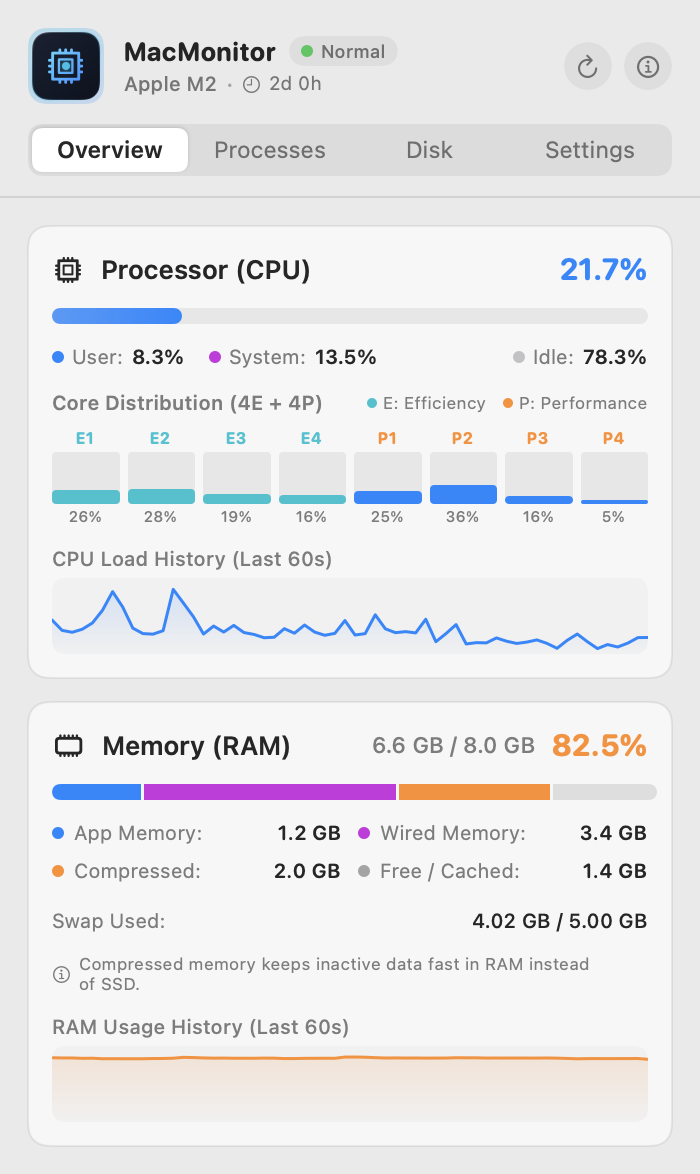
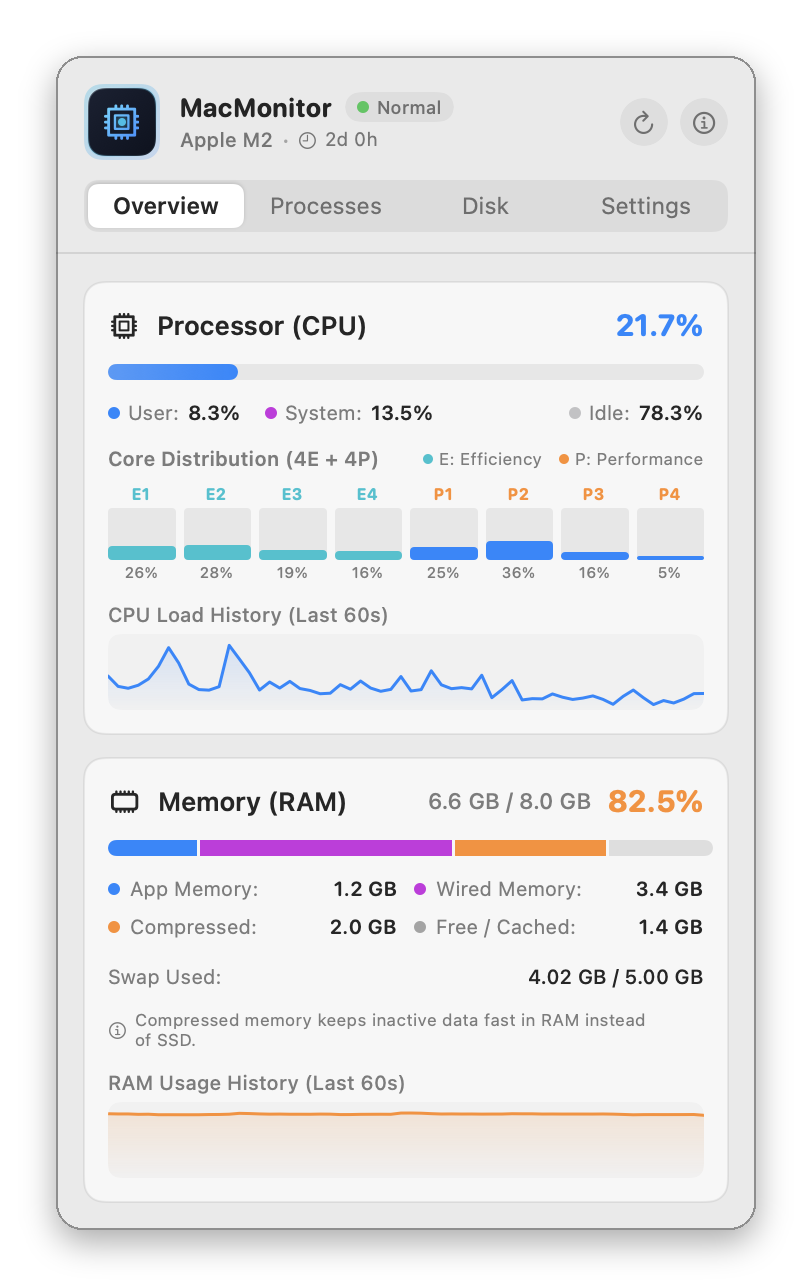
Screenshots framed like the other freeware2 apps: rounded corners, outline, shadow

diff --git a/README.tr.md b/README.tr.md
@@ -34,18 +34,18 @@
 
 Açık ve koyu menü çubuğunda gösterge (eşik aşılınca kırmızı) ve tıklayınca açılan panel.
 
-<p align="center"><img src="docs/screenshots/menubar.png" width="380" alt="Menü çubuğu: açık menü çubuğunda CPU %7 ve RAM %64, koyu menü çubuğunda CPU %23 ve kırmızı RAM %92"></p>
+<p align="center"><img src="docs/screenshots/menubar.png" width="436" alt="Menü çubuğu: açık menü çubuğunda CPU %7 ve RAM %64, koyu menü çubuğunda CPU %23 ve kırmızı RAM %92"></p>
 
 <p align="center">
-  <img src="docs/screenshots/tr/overview.png" width="300" alt="Genel Bakış sekmesi: kullanıcı, sistem ve boşta ayrımıyla toplam CPU, her çekirdek için çubuk, CPU geçmişi, takas alanıyla birlikte bellek dağılımı">
+  <img src="docs/screenshots/tr/overview.png" width="330" alt="Genel Bakış sekmesi: kullanıcı, sistem ve boşta ayrımıyla toplam CPU, her çekirdek için çubuk, CPU geçmişi, takas alanıyla birlikte bellek dağılımı">
   &nbsp;
-  <img src="docs/screenshots/tr/overview-dark.png" width="300" alt="Genel Bakış sekmesi, koyu görünüm">
+  <img src="docs/screenshots/tr/overview-dark.png" width="330" alt="Genel Bakış sekmesi, koyu görünüm">
 </p>
 
 <p align="center">
-  <img src="docs/screenshots/tr/processes.png" width="300" alt="İşlemler sekmesi: en çok CPU kullanan altı işlem">
+  <img src="docs/screenshots/tr/processes.png" width="330" alt="İşlemler sekmesi: en çok CPU kullanan altı işlem">
   &nbsp;
-  <img src="docs/screenshots/tr/disk.png" width="300" alt="Disk sekmesi: Macintosh HD'nin boş, kullanılan ve toplam alanı">
+  <img src="docs/screenshots/tr/disk.png" width="330" alt="Disk sekmesi: Macintosh HD'nin boş, kullanılan ve toplam alanı">
 </p>
 
 ## Özellikler

diff --git a/README.md b/README.md
@@ -34,18 +34,18 @@
 
 The readout in light and dark menu bars (red once a threshold is crossed), and the panel that opens with a click.
 
-<p align="center"><img src="docs/screenshots/menubar.png" width="380" alt="Menu bar: CPU 7% and RAM 64% in a light menu bar, CPU 23% and RAM 92% in red in a dark menu bar"></p>
+<p align="center"><img src="docs/screenshots/menubar.png" width="436" alt="Menu bar: CPU 7% and RAM 64% in a light menu bar, CPU 23% and RAM 92% in red in a dark menu bar"></p>
 
 <p align="center">
-  <img src="docs/screenshots/overview.png" width="300" alt="Overview tab: total CPU with user, system and idle, a bar per core, CPU history, and memory breakdown with swap">
+  <img src="docs/screenshots/overview.png" width="330" alt="Overview tab: total CPU with user, system and idle, a bar per core, CPU history, and memory breakdown with swap">
   &nbsp;
-  <img src="docs/screenshots/overview-dark.png" width="300" alt="Overview tab in dark mode">
+  <img src="docs/screenshots/overview-dark.png" width="330" alt="Overview tab in dark mode">
 </p>
 
 <p align="center">
-  <img src="docs/screenshots/processes.png" width="300" alt="Processes tab: the six processes using the most CPU">
+  <img src="docs/screenshots/processes.png" width="330" alt="Processes tab: the six processes using the most CPU">
   &nbsp;
-  <img src="docs/screenshots/disk.png" width="300" alt="Disk tab: free, used and total space of Macintosh HD">
+  <img src="docs/screenshots/disk.png" width="330" alt="Disk tab: free, used and total space of Macintosh HD">
 </p>
 
 ## Features
